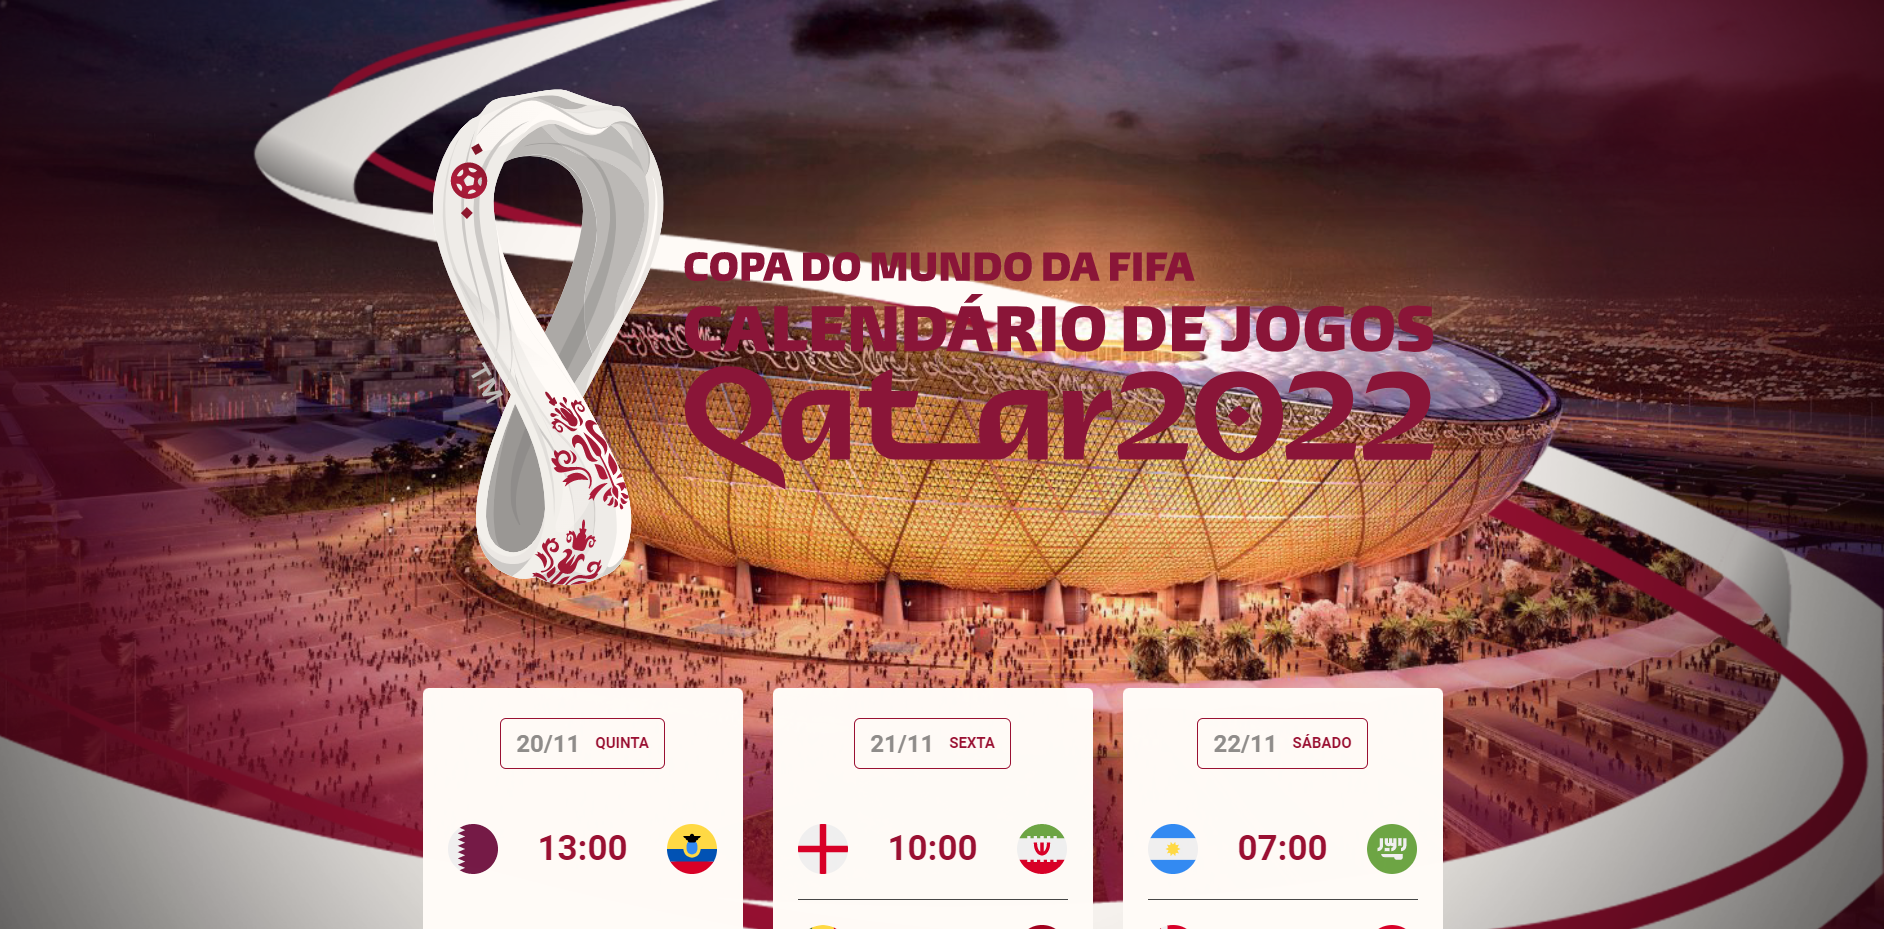
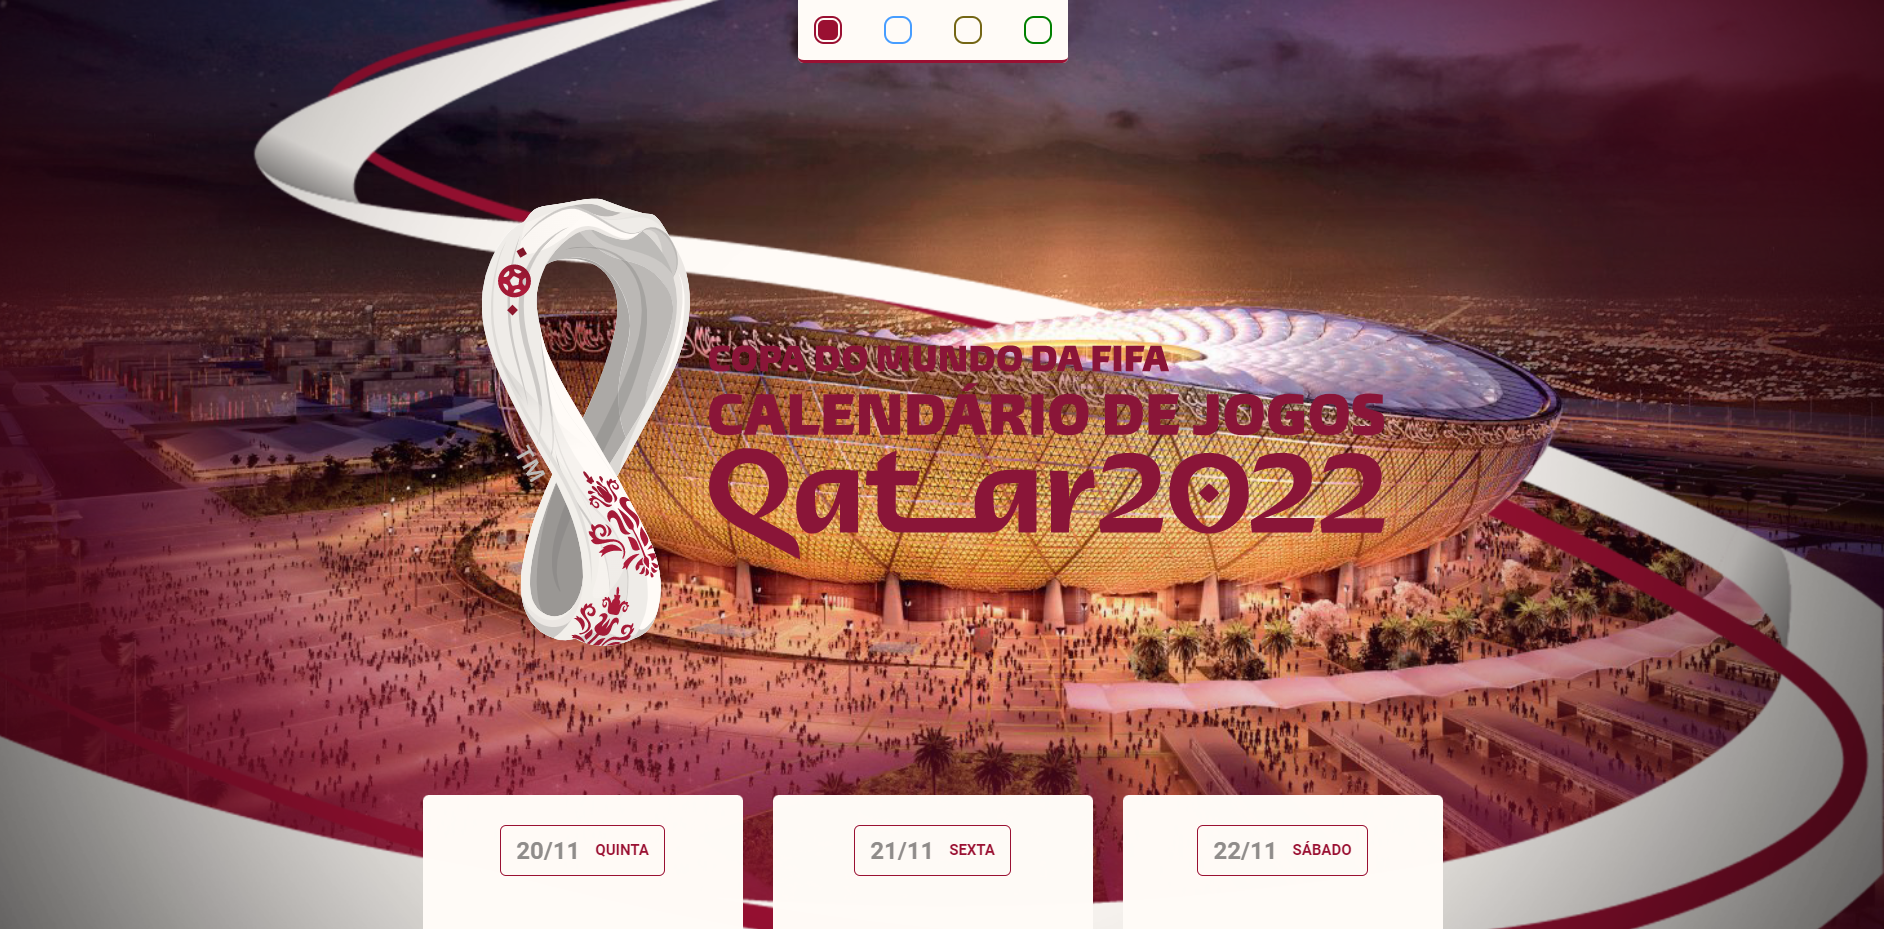
themes commit

diff --git a/style.css b/style.css
@@ -3,7 +3,7 @@
   padding: 0;
   box-sizing: border-box;
 }
-:root {
+/*:root {
   --card-color: #fffbf7;
   --card-detail: #9a1032;
   --card-text1: #8f8c8a;
@@ -34,9 +34,81 @@ body.hexa {
   --card-text2: #ffdf00;
   --card-division: #0055ff;
   --background: url(./assets/backgrounds/hexa.png);
+}*/
+.choose-theme > fieldset {
+  width: fit-content;
+  justify-content: center;
+  align-items: center;
+  border: 0;
+  padding: 20px;
+  margin-inline: auto;
+  display: flex;
+  gap: 50px;
+  background: var(--card-color);
+  border-bottom: 3px solid var(--card-detail);
+  border-radius: 0px 0px 6px 6px;
+}
+.choose-theme input[type="radio"] {
+  appearance: none;
+  width: 20px;
+  height: 20px;
+  outline: 2px solid var(--radio-color, currentColor);
+  outline-offset: 2px;
+  border-radius: 6px;
+}
+.choose-theme input[type="radio"]:checked {
+  background-color: var(--radio-color);
+}
+#standart {
+  --radio-color: #9a1032;
+}
+#light {
+  --radio-color: #479dff;
+}
+#dark {
+  --radio-color: #746615;
+}
+#hexa {
+  --radio-color: #008000;
 }
 #logo {
   margin: 50px;
+}
+.standart,
+:root:has(#standart:checked) {
+  --card-color: #fffbf7;
+  --card-detail: #9a1032;
+  --card-text1: #8f8c8a;
+  --card-text2: #9a1032;
+  --card-division: #464646;
+  --background: url(./assets/backgrounds/standart.png);
+}
+.light,
+:root:has(#light:checked) {
+  --card-color: #cfcfcf;
+  --card-detail: #479dff;
+  --card-text1: #0077ff;
+  --card-text2: #525252;
+  --card-division: #464646;
+  --background: url(./assets/backgrounds/light.png);
+}
+.dark,
+:root:has(#dark:checked) {
+  --card-color: #1d1c19;
+  --card-detail: #746615;
+  --card-text1: #d0b833;
+  --card-text2: #c3c3c3;
+  --card-division: #464646;
+  --background: url(./assets/backgrounds/dark.png);
+}
+.hexa,
+:root:has(#hexa:checked) {
+  --card-color: #003816;
+  --card-detail: #ffdf00;
+  --card-text1: #0055ff;
+  --card-text2: #ffdf00;
+  --card-division: #0055ff;
+  --background: url(./assets/backgrounds/hexa.png);
 }
 ul {
   list-style: none;

diff --git a/index.html b/index.html
@@ -8,29 +8,27 @@
     <link rel="stylesheet" href="./style.css" />
     <link rel="preconnect" href="https://fonts.googleapis.com" />
     <link rel="preconnect" href="https://fonts.gstatic.com" crossorigin />
-    <link
-      href="https://fonts.googleapis.com/css2?family=Roboto:wght@700&display=swap"
-      rel="stylesheet"
-    />
+    <link href="https://fonts.googleapis.com/css2?family=Roboto:wght@700&display=swap" rel="stylesheet"/>
   </head>
   <body class="">
+    <form class="choose-theme" action="">
+      <fieldset>
+        <legend class="sr-only">Tema: </legend>
+        <label for="standart" class="sr-only">Padrão</label>
+        <input type="radio" name="theme" id="standart" checked>
+        <label for="light" class="sr-only">Claro</label>
+        <input type="radio" name="theme" id="light">
+        <label for="dark" class="sr-only">Escuro</label>
+        <input type="radio" name="theme" id="dark">
+        <label for="hexa" class="sr-only">Hexa</label>
+        <input type="radio" name="theme" id="hexa">
+      </fieldset>
+    </form>
     <div id="app">
       <header>
         <img id="logo" src="./assets/logo.svg" alt="Logo da Copa do mundo de 2022" />
       </header>
       <main id="cards">
-        <!--
-                <div class="card">
-                    <h2 id="date">20/11 <span id="day">quinta</span></h2>
-                    <ul>
-                        <li>
-                            <img src="./assets/country_icons/icon_qatar.svg" alt="Bandeira do Catar">
-                            <strong id="time">13:00</strong>
-                            <img src="./assets/country_icons/icon_ecuador.svg" alt="Bandeira do Equador">
-                        </li>
-                    </ul>
-                </div>
-                -->
       </main>
     </div>
     <script src="./main.js"></script>

diff --git a/main.js b/main.js
@@ -1,3 +1,28 @@
+const colorThemes = document.querySelectorAll('[name="theme"]');
+
+const storeTheme = function (theme) {
+  localStorage.setItem("theme", theme)
+};
+
+const setTheme = function () {
+  const activeTheme = localStorage.getItem("theme");
+  colorThemes.forEach((themeOption) => {
+    if (themeOption.id === activeTheme) {
+      themeOption.checked = true;
+    }
+  });
+  document.documentElement.className = activeTheme;
+};
+
+colorThemes.forEach((themeOption) => {
+  themeOption.addEventListener("click", () => {
+    storeTheme(themeOption.id);
+    document.documentElement.className = themeOption.id;
+  });
+});
+
+document.onload = setTheme();
+
 function createGame(team1, time, team2) {
   return `
   <li>
@@ -7,6 +32,7 @@ function createGame(team1, time, team2) {
   </li>
   `
 }
+
 let delay = -0.3;
 function createCard(date, day, games) {
   delay = delay + 0.3;
@@ -19,6 +45,7 @@ function createCard(date, day, games) {
     </div>
   `
 }
+
 document.querySelector("#cards").innerHTML =
   createCard("20/11", "quinta", createGame("qatar", "13:00", "ecuador")) +
   createCard("21/11", "sexta", createGame("england", "10:00", "iran") + createGame("senegal", "13:00", "netherlands") + createGame("usa", "16:00", "wales")) +

diff --git a/css/themes/standart.css b/css/themes/standart.css
@@ -1,0 +1,9 @@
+.standart,
+:root:has(#standart:checked) {
+  --card-color: #fffbf7;
+  --card-detail: #9a1032;
+  --card-text1: #8f8c8a;
+  --card-text2: #9a1032;
+  --card-division: #464646;
+  --background: url(./assets/backgrounds/standart.png);
+}

diff --git a/css/themes/light.css b/css/themes/light.css
@@ -1,0 +1,9 @@
+.light,
+:root:has(#light:checked) {
+  --card-color: #cfcfcf;
+  --card-detail: #479dff;
+  --card-text1: #0077ff;
+  --card-text2: #525252;
+  --card-division: #464646;
+  --background: url(./assets/backgrounds/light.png);
+}

diff --git a/css/themes/dark.css b/css/themes/dark.css
@@ -1,0 +1,9 @@
+.dark,
+:root:has(#dark:checked) {
+  --card-color: #1d1c19;
+  --card-detail: #746615;
+  --card-text1: #d0b833;
+  --card-text2: #c3c3c3;
+  --card-division: #464646;
+  --background: url(./assets/backgrounds/dark.png);
+}

diff --git a/css/themes/hexa.css b/css/themes/hexa.css
@@ -1,0 +1,9 @@
+.hexa,
+:root:has(#hexa:checked) {
+  --card-color: #003816;
+  --card-detail: #ffdf00;
+  --card-text1: #0055ff;
+  --card-text2: #ffdf00;
+  --card-division: #0055ff;
+  --background: url(./assets/backgrounds/hexa.png);
+}
